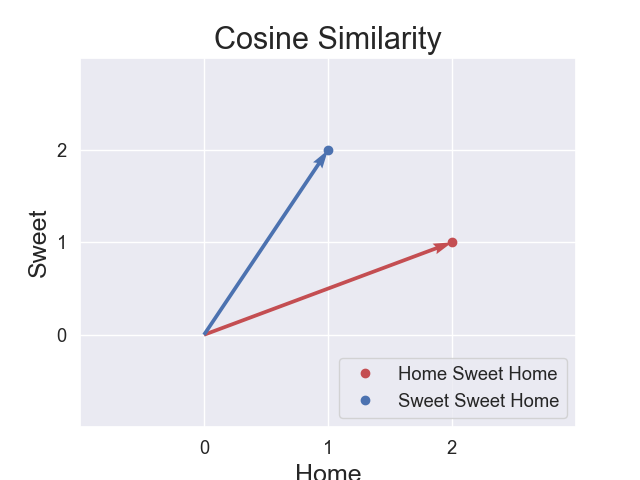
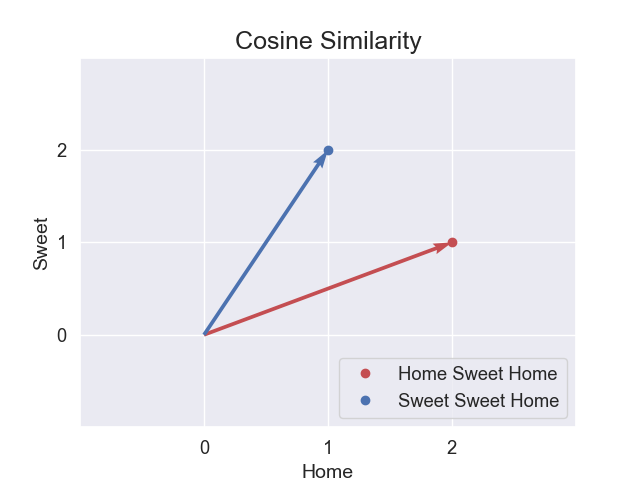
Add files via upload

Changed region(s): [[0.3125, 0.0312, 0.6875, 0.125], [0.0312, 0.4375, 0.0938, 0.5938], [0.4375, 0.9688, 0.5625, 1.0]]

diff --git a/cosine_similarity.py b/cosine_similarity.py
@@ -32,8 +32,8 @@ if 1:
     plt.ylim(-1, 3)
     plt.yticks(np.arange(0, 3, step=1))
     plt.xticks(np.arange(0, 3, step=1))
-    plt.xlabel('Home', fontsize=18)
-    plt.ylabel('Sweet', fontsize=18)
-    plt.title('Cosine Similarity', fontsize=22)
+    plt.xlabel('Home', fontsize=14)
+    plt.ylabel('Sweet', fontsize=14)
+    plt.title('Cosine Similarity', fontsize=18)
     plt.savefig('CosineSimilarity.png')
     plt.show()
